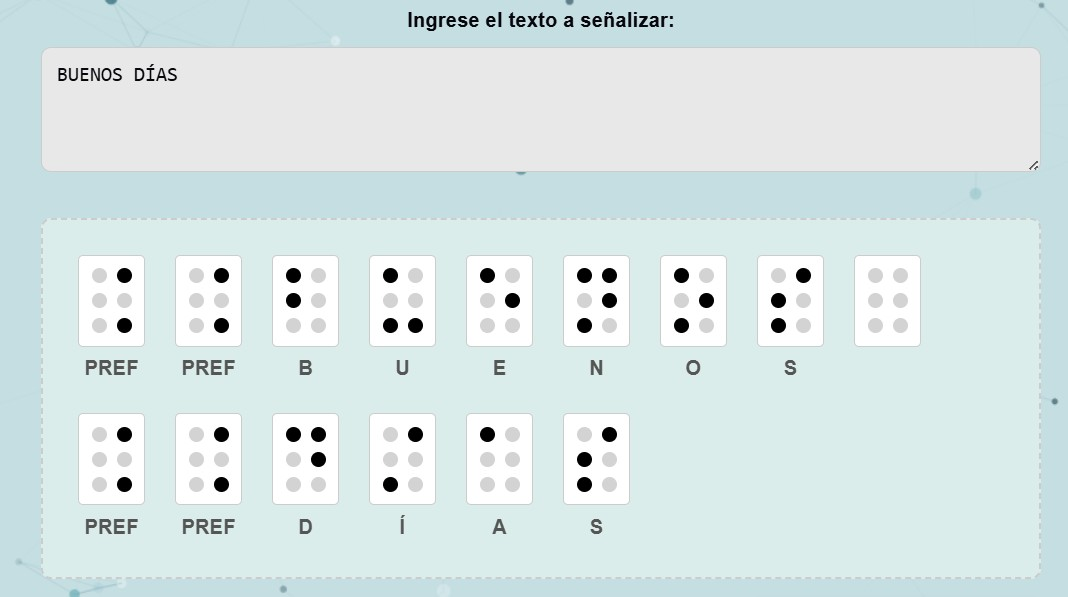
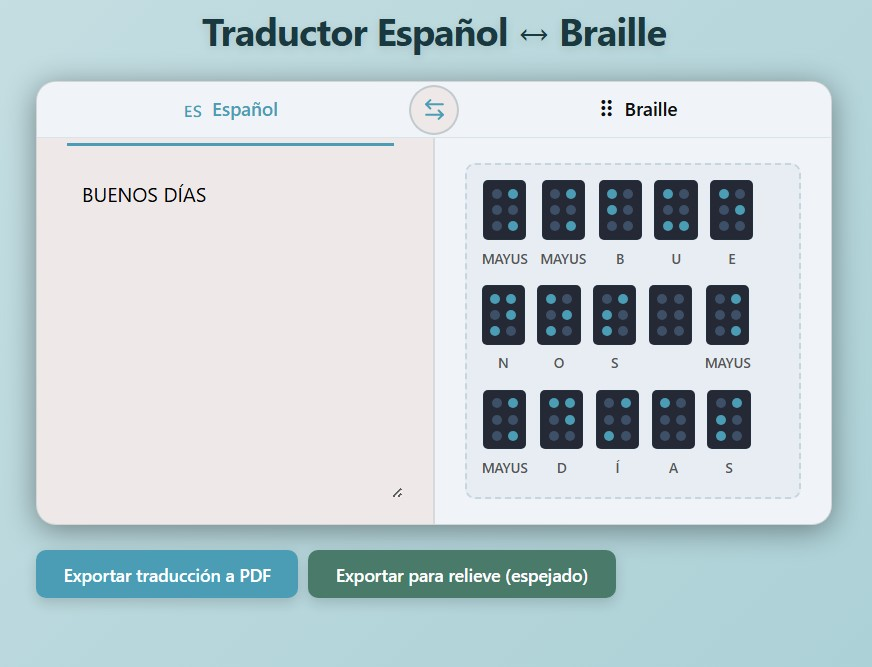
docs: actualización de documentación y capturas de pantalla MANUAL DE USUARIO, HISTORIAS DE USUARIO, CASOS DE PRUEBA, DISEÑO ARQUITECTÓNICO y capturas de pantalla actualizadas.

diff --git a/MANUAL_USUARIO.md b/MANUAL_USUARIO.md
@@ -42,37 +42,37 @@ Los puntos pueden estar en relieve (elevados) o hundidos para formar diferentes 
 
 ## Interfaz de Usuario
 
-> **Nota:** Las capturas e interfaz descritas en esta sección corresponden a la versión actual en producción (traducción Español → Braille). La interfaz bidireccional con pestañas de idioma y doble exportación (ver [Traducción Bidireccional](#traducción-bidireccional-braille--español)) está en desarrollo y sus capturas se actualizarán aquí cuando se fusione a producción.
-
-La aplicación posee una interfaz clara y funcional diseñada para facilitar la traducción de texto al sistema Braille.
+La aplicación posee una interfaz clara y funcional diseñada para facilitar la traducción de texto al sistema Braille, en ambas direcciones.
 
 ![Interfaz Principal Completa](screenshot/Interfaz%20Principal%20Completa.jpg)
 
 ### Componentes Principales
 
 1. Título Principal
-   - "Traductor Español - Braille"
+   - "Traductor Español ↔ Braille"
    - Se muestra en la parte superior de la interfaz
 
-2. Sección de Entrada
-   - Un cuadro de texto extenso donde se ingresa el contenido a traducir
-   - Incluye indicación de tipos de contenido soportados
-   - Acepta cualquier texto en español
+2. Cabecera de Pestañas
+   - Dos pestañas, "Español" y "Braille", indican cuál idioma es la entrada y cuál la salida
+   - Un botón de intercambio (↔) entre ambas invierte la dirección de traducción
 
-3. Área de Visualización
-   - Muestra las celdas Braille traducidas
+   ![Botón para Intercambiar de Traducción](screenshot/Boton%20para%20Intercambiar%20de%20Traducción.jpg)
+
+3. Panel Izquierdo (Entrada)
+   - En modo Español → Braille: un cuadro de texto donde se ingresa el contenido a traducir
+   - En modo Braille → Español: las celdas Braille acumuladas desde el teclado en pantalla
+
+4. Panel Derecho (Salida)
+   - Muestra las celdas Braille traducidas o el texto en español resultante, según la dirección activa
    - Se actualiza en tiempo real mientras se escribe
-   - Cada celda contiene 6 puntos que se muestran en negro (activos) o gris (inactivos)
+   - Cada celda contiene 6 puntos que se muestran en teal/cian (activos) o gris oscuro (inactivos), sobre una tarjeta de fondo oscuro
    - Debajo de cada celda aparece el carácter original en tinta para referencia
 
-4. Botón de Exportación
-   - "Exportar traducción a PDF"
-   - Aparece únicamente cuando hay contenido traducido
-   - Genera un documento PDF descargable
+5. Botones de Exportación
+   - "Exportar traducción a PDF" y "Exportar para relieve (espejado)"
+   - Aparecen únicamente cuando hay contenido traducido en modo Español → Braille
 
-5. Fondo Animado
-   - Elementos visuales decorativos que mejoran la experiencia del usuario
-   - Proporciona una interfaz atractiva sin interferir con la funcionalidad
+   ![Botones para Exportación](screenshot/Botones%20para%20Exportación.jpg)
 
 ---
 
@@ -97,13 +97,13 @@ La traducción a Braille aparecerá inmediatamente debajo, mostrando:
 - El carácter original debajo de cada celda
 - Los prefijos especiales para números y mayúsculas
 
-![Traducción en Tiempo Real](screenshot/Traducción%20en%20Tiempo%20Real.jpg)
+![Traducción en Tiempo Real](screenshot/Ejemplo%202.jpg)
 
 ### Paso 3: Interprete las Celdas
 
-- Puntos negros: Puntos que están en relieve (activos)
-- Puntos grises: Puntos que no están en relieve (inactivos)
-- Si una celda está completamente gris: espacio en blanco
+- Puntos teal/cian: Puntos que están en relieve (activos)
+- Puntos gris oscuro: Puntos que no están en relieve (inactivos)
+- Si una celda no tiene puntos activos: espacio en blanco
 
 ![Celdas Braille Detalladas](screenshot/Celdas%20Braille%20Detalladas.jpg)
 
@@ -141,7 +141,7 @@ El sistema aplica automáticamente las reglas del Braille español:
 ### 4. Indicadores Visuales
 
 
-- Prefijos: Se etiquetan como "PREF" para identificación
+- Prefijos: Se etiquetan como "MAYUS" (prefijo de mayúscula) o "NUM" (prefijo de número) debajo de la celda, para identificación
 
 ---
 
@@ -156,6 +156,8 @@ En la cabecera del traductor hay un botón de intercambio (↔) entre las dos pe
 - El panel derecho muestra el texto en español resultante, actualizado en tiempo real.
 - El contenido de ambos modos se reinicia al cambiar de dirección, para evitar mezclar datos de una traducción con otra.
 
+![Braille a Español](screenshot/Braille%20a%20Español.jpg)
+
 ### Teclado Braille en Pantalla
 
 En modo "Braille → Español" aparece un teclado Braille interactivo debajo de la tarjeta del traductor, con teclas para:
@@ -164,6 +166,14 @@ En modo "Braille → Español" aparece un teclado Braille interactivo debajo de 
 - Espacio, borrar el último carácter ingresado y limpiar todo el contenido.
 
 Cada tecla presionada agrega una celda Braille al panel izquierdo y su carácter correspondiente al texto en español del panel derecho.
+
+![Teclado en Pantalla](screenshot/Teclado%20en%20Pantalla.jpg)
+
+### Ejemplo
+
+Al presionar en el teclado las letras correspondientes a "donde es la fiesta", el panel izquierdo acumula las celdas Braille ingresadas y el panel derecho muestra el texto en español resultante en tiempo real:
+
+![Ejemplo Braille a Español](screenshot/Ejemplo%20Braille%20a%20Español.jpg)
 
 ---
 
@@ -236,7 +246,7 @@ Hola
 
 Salida Braille:
 ```
-[PREF] [H] [o] [l] [a]
+[MAYUS] [H] [o] [l] [a]
 ```
 
 El carácter "H" se encuentra en mayúscula, por lo que aparece el prefijo de mayúscula.
@@ -253,7 +263,7 @@ El año es 2026
 
 Salida Braille:
 ```
-[E] [l] [espacio] [a] [ñ] [o] [espacio] [e] [s] [espacio] [PREF] [2] [0] [2] [6]
+[MAYUS] [E] [l] [espacio] [a] [ñ] [o] [espacio] [e] [s] [espacio] [NUM] [2] [0] [2] [6]
 ```
 
 Los números reciben un prefijo al inicio de la secuencia numérica.
@@ -266,15 +276,15 @@ Los números reciben un prefijo al inicio de la secuencia numérica.
 
 Entrada:
 ```
-BUENOS DIAS
+BUENOS DÍAS
 ```
 
 Salida Braille:
 ```
-[DOBLE PREF] [B] [U] [E] [N] [O] [S] [espacio] [D] [I] [A] [S]
+[MAYUS] [MAYUS] [B] [U] [E] [N] [O] [S] [espacio] [MAYUS] [MAYUS] [D] [Í] [A] [S]
 ```
 
-Únicamente el primer prefijo es doble; los caracteres restantes no llevan prefijo adicional.
+Cada palabra completamente en mayúsculas recibe su propio doble prefijo al inicio; el resto de sus caracteres no llevan prefijo adicional.
 
 ![Palabra Completamente en Mayúsculas](screenshot/Palabra%20Completamente%20en%20Mayúsculas.jpg)
 
@@ -289,7 +299,7 @@ Entrada:
 
 Salida Braille:
 ```
-[!] [PREF] [H] [o] [l] [a] [!]
+[!] [MAYUS] [H] [o] [l] [a] [!]
 ```
 
 Los signos de puntuación se colocan en sus posiciones correspondientes.
@@ -306,7 +316,7 @@ Mañana será
 
 Salida Braille:
 ```
-[PREF] [M] [a] [ñ] [a] [n] [a] [espacio] [s] [e] [r] [á]
+[MAYUS] [M] [a] [ñ] [a] [n] [a] [espacio] [s] [e] [r] [á]
 ```
 
 El sistema maneja correctamente todas las vocales acentuadas y la letra ñ.
@@ -323,12 +333,13 @@ Ingrese el texto que desea traducir en el área de entrada.
 
 ### Paso 2: Haga clic en el Botón de Exportación
 
-Cuando haya contenido traducido, verá un botón que dice:
+Cuando haya contenido traducido, verán dos botones:
 ```
 "Exportar traducción a PDF"
+"Exportar para relieve (espejado)"
 ```
 
-Haga clic en él.
+Haga clic en "Exportar traducción a PDF" para el formato normal.
 
 ![Botón de Exportación Visible](screenshot/Botón%20de%20Exportación%20Visible.jpg)
 
@@ -336,7 +347,7 @@ Haga clic en él.
 
 El navegador descargará automáticamente un archivo PDF con:
 
-- Título: "Traductor Español - Braille"
+- Título: "Señalética Braille"
 - Texto original: El texto ingresado
 - Celdas Braille: Todas las celdas traducidas con:
   - Los 6 puntos de cada celda (puntos negros = activos)
@@ -365,6 +376,8 @@ Al usarlo, el PDF generado:
 - Titula el documento como "Señalética Braille - Para Imprimir" para diferenciarlo del PDF normal.
 
 Esto permite perforar el papel desde el reverso de la hoja: al voltearla, los puntos quedan en relieve en la posición correcta para su lectura táctil.
+
+![Impresión en Espejo](screenshot/Impresión%20en%20Espejo.jpg)
 
 ---
 

diff --git a/HistoriasDeUsuario.md b/HistoriasDeUsuario.md
@@ -7,6 +7,6 @@
 | **HU02** | **Como** usuario<br>**Necesito** que el sistema convierta vocales acentuadas (á, é, í, ó, ú) y la ñ a Braille<br>**Para** producir textos completos en español. | **Caso de éxito:**<br>- **Dado que** el usuario ingresa caracteres con acentuación o especiales del español.<br>- **Cuando** el sistema procesa el texto.<br>- **Entonces** el sistema debe retornar la combinación específica para cada una. |
 | **HU03** | **Como** usuario<br>**Necesito** que el sistema transcriba números (0–9) al Braille anteponiendo el signo de número<br>**Para** representar cantidades en señalética. | **Caso de éxito:**<br>- **Dado que** el usuario ingresa un número individual.<br>- **Cuando** el sistema genera el código Braille.<br>- **Entonces** el sistema debe anteponer el "signo de número" seguido de la equivalencia de la primera serie primitiva.<br><br>**Caso de fallo:**<br>- El usuario ingresa números combinados con letras, y el sistema no devuelve correctamente el cuadratín señalizando un número. |
 | **HU04** | **Como** usuario<br>**Necesito** que el sistema identifique letras mayúsculas y anteponga el indicador de mayúscula Braille<br>**Para** que la transcripción sea fiel al original. | **Caso de éxito:**<br>- **Dado que** el usuario ingresa una letra en mayúscula.<br>- **Cuando** el sistema evalúa el carácter.<br>- **Entonces** el sistema debe añadir un cuadratín previo con el "indicador de mayúsculas".<br><br>**Caso de fallo:**<br>- El usuario ingresa letras mayúsculas, y el sistema no devuelve el indicador de mayúscula braille. |
-| **HU05** | **Como** usuario<br>**Necesito** que el sistema me permita generar señalética braille a partir de textos en español<br>**Para** su impresión. | **Caso de éxito:**<br>- **Dado que** el sistema ha procesado con éxito un texto en español.<br>- **Cuando** se despliega el resultado en la pantalla de la aplicación web.<br>- **Entonces** el sistema debe dibujar gráficamente un rectángulo por cada carácter, mostrando los puntos activos rellenos en negro y los inactivos visibles en gris claro.<br><br>**Caso de fallo:**<br>- El usuario solicita la impresión de la señalética, y el sistema devuelve un error o no procesa la vista. |
+| **HU05** | **Como** usuario<br>**Necesito** que el sistema me permita generar señalética braille a partir de textos en español<br>**Para** su impresión. | **Caso de éxito:**<br>- **Dado que** el sistema ha procesado con éxito un texto en español.<br>- **Cuando** se despliega el resultado en la pantalla de la aplicación web.<br>- **Entonces** el sistema debe dibujar gráficamente un rectángulo por cada carácter, mostrando los puntos activos en color teal/cian y los inactivos en gris oscuro, sobre una tarjeta de fondo oscuro.<br><br>**Caso de fallo:**<br>- El usuario solicita la impresión de la señalética, y el sistema devuelve un error o no procesa la vista. |
 | **HU06** | **Como** usuario<br>**Necesito** exportar la señalética Braille en modo espejado (invertido)<br>**Para** poder perforarla desde el reverso de la hoja y que los puntos queden correctamente en relieve al voltear la página. | **Caso de éxito:**<br>- **Dado que** el usuario tiene una traducción a Braille generada.<br>- **Cuando** presiona el botón "Exportar para relieve (espejado)".<br>- **Entonces** el sistema debe generar un PDF con las celdas en orden horizontal invertido y cada celda con sus columnas de puntos (1-2-3 / 4-5-6) intercambiadas.<br><br>**Caso de fallo:**<br>- El usuario exporta en modo espejado sin contenido traducido, y el sistema no debe generar ningún archivo. |
 | **HU07** | **Como** usuario<br>**Necesito** poder traducir en sentido inverso, de Braille a español, usando un teclado Braille en pantalla<br>**Para** verificar o transcribir contenido ya escrito en Braille. | **Caso de éxito:**<br>- **Dado que** el usuario cambia la dirección de traducción a "Braille → Español" con el botón de intercambio.<br>- **Cuando** selecciona letras, números o signos en el teclado Braille en pantalla.<br>- **Entonces** el sistema debe mostrar las celdas Braille ingresadas en el panel izquierdo y el texto en español equivalente en el panel derecho, en tiempo real.<br><br>**Caso de fallo:**<br>- El usuario cambia de dirección de traducción y el sistema no limpia el contenido previo, mezclando datos de ambos modos. |

diff --git a/DiseñoArquitectonico.md b/DiseñoArquitectonico.md
@@ -12,8 +12,8 @@ El sistema implementa una arquitectura basada en capas desacopladas dentro del e
 
 ### 2.1. Descripción de las Capas
 
-* *Capa de Componentes (React):* Se encarga exclusivamente de la experiencia de usuario y el renderizado visual de la interfaz. Está compuesta por módulos especializados en la captura de entradas de texto en tinta, la iteración gráfica de las celdas del cuadratín (matriz de 2x3) y la preparación de vistas optimizadas para la exportación de señalética a formato PDF.
-* *Capa de Adaptación (Custom Hooks):* Representada por el hook useBrailleTranslator. Actúa como mediador arquitectónico; encapsula el estado reactivo de la interfaz web y gestiona las llamadas asíncronas o reactivas hacia la lógica del negocio, abstrayendo a los componentes de los detalles algorítmicos.
+* *Capa de Componentes (React):* Se encarga exclusivamente de la experiencia de usuario y el renderizado visual de la interfaz. Está compuesta por módulos especializados en la captura de entradas de texto en tinta, la captura de entradas Braille mediante un teclado en pantalla (para la dirección Braille → Español), la iteración gráfica de las celdas del cuadratín (matriz de 2x3) y la preparación de vistas optimizadas para la exportación de señalética a formato PDF.
+* *Capa de Adaptación (Custom Hooks):* Representada por los hooks useBrailleTranslator y usePdfExport. useBrailleTranslator actúa como mediador arquitectónico; encapsula el estado reactivo de la interfaz web (incluyendo la dirección de traducción activa) y gestiona las llamadas hacia la lógica del negocio, abstrayendo a los componentes de los detalles algorítmicos. usePdfExport encapsula la generación del documento PDF mediante jsPDF, incluyendo la variante espejada para impresión en relieve.
 * *Capa de Lógica de Negocio (TypeScript):* Compuesta por clases y servicios de lógica pura en TypeScript, totalmente agnósticos de la interfaz gráfica.
     * BrailleTranslatorService: Contiene las reglas algorítmicas para procesar las series primitivas, secundarias y terceras, así como las banderas de control para la inserción de prefijos numéricos y de mayúsculas.
     * BrailleDictionary: Estructura de datos inmutable que almacena los mapas de equivalencias estáticas del sistema Braille Español.

diff --git a/CasosDePrueba.md b/CasosDePrueba.md
@@ -1,4 +1,4 @@
-# Casos de Prueba: Traductor Español - Braille 
+# Casos de Prueba: Traductor Español ↔ Braille
 
 **Equipo 2**
 
@@ -157,4 +157,26 @@ Una vez aplicadas las correcciones sobre la traducción del cero y los prefijos 
 
 
 **Resultado de la prueba:** Sin problemas. Todas las validaciones de números, caracteres especiales y prefijos pasaron exitosamente.
+
+## 4. Cuarta Iteración de Pruebas
+
+Con la incorporación de la traducción bidireccional (Braille → Español) y la exportación en modo espejado para impresión en relieve (HU06 y HU07), se realizaron pruebas manuales sobre ambas funcionalidades nuevas.
+
+### Traducción Braille → Español
+
+**Caso ingresado:** Cambio de dirección con el botón de intercambio, e ingreso de "donde es la fiesta" mediante el teclado Braille en pantalla.
+
+<img width="300" alt="Botón para Intercambiar de Traducción" src="screenshot/Boton%20para%20Intercambiar%20de%20Traducción.jpg" />
+<img width="400" alt="Teclado en Pantalla" src="screenshot/Teclado%20en%20Pantalla.jpg" />
+<img width="500" alt="Ejemplo Braille a Español" src="screenshot/Ejemplo%20Braille%20a%20Español.jpg" />
+
+**Resultado de la prueba:** Sin problemas. El panel izquierdo acumuló correctamente las celdas Braille ingresadas por teclado, y el panel derecho mostró el texto en español equivalente ("donde es la fiesta") en tiempo real.
+
+### Exportación en Modo Espejado (Relieve)
+
+**Caso ingresado:** Traducción de "Traducción" a Braille, exportada con el botón "Exportar para relieve (espejado)".
+
+<img width="500" alt="Impresión en Espejo" src="screenshot/Impresión%20en%20Espejo.jpg" />
+
+**Resultado de la prueba:** Sin problemas. El PDF generado invirtió correctamente el orden horizontal de las celdas y las columnas de puntos de cada una, y se tituló "Señalética Braille - Para Imprimir" para diferenciarlo del PDF normal.
 
